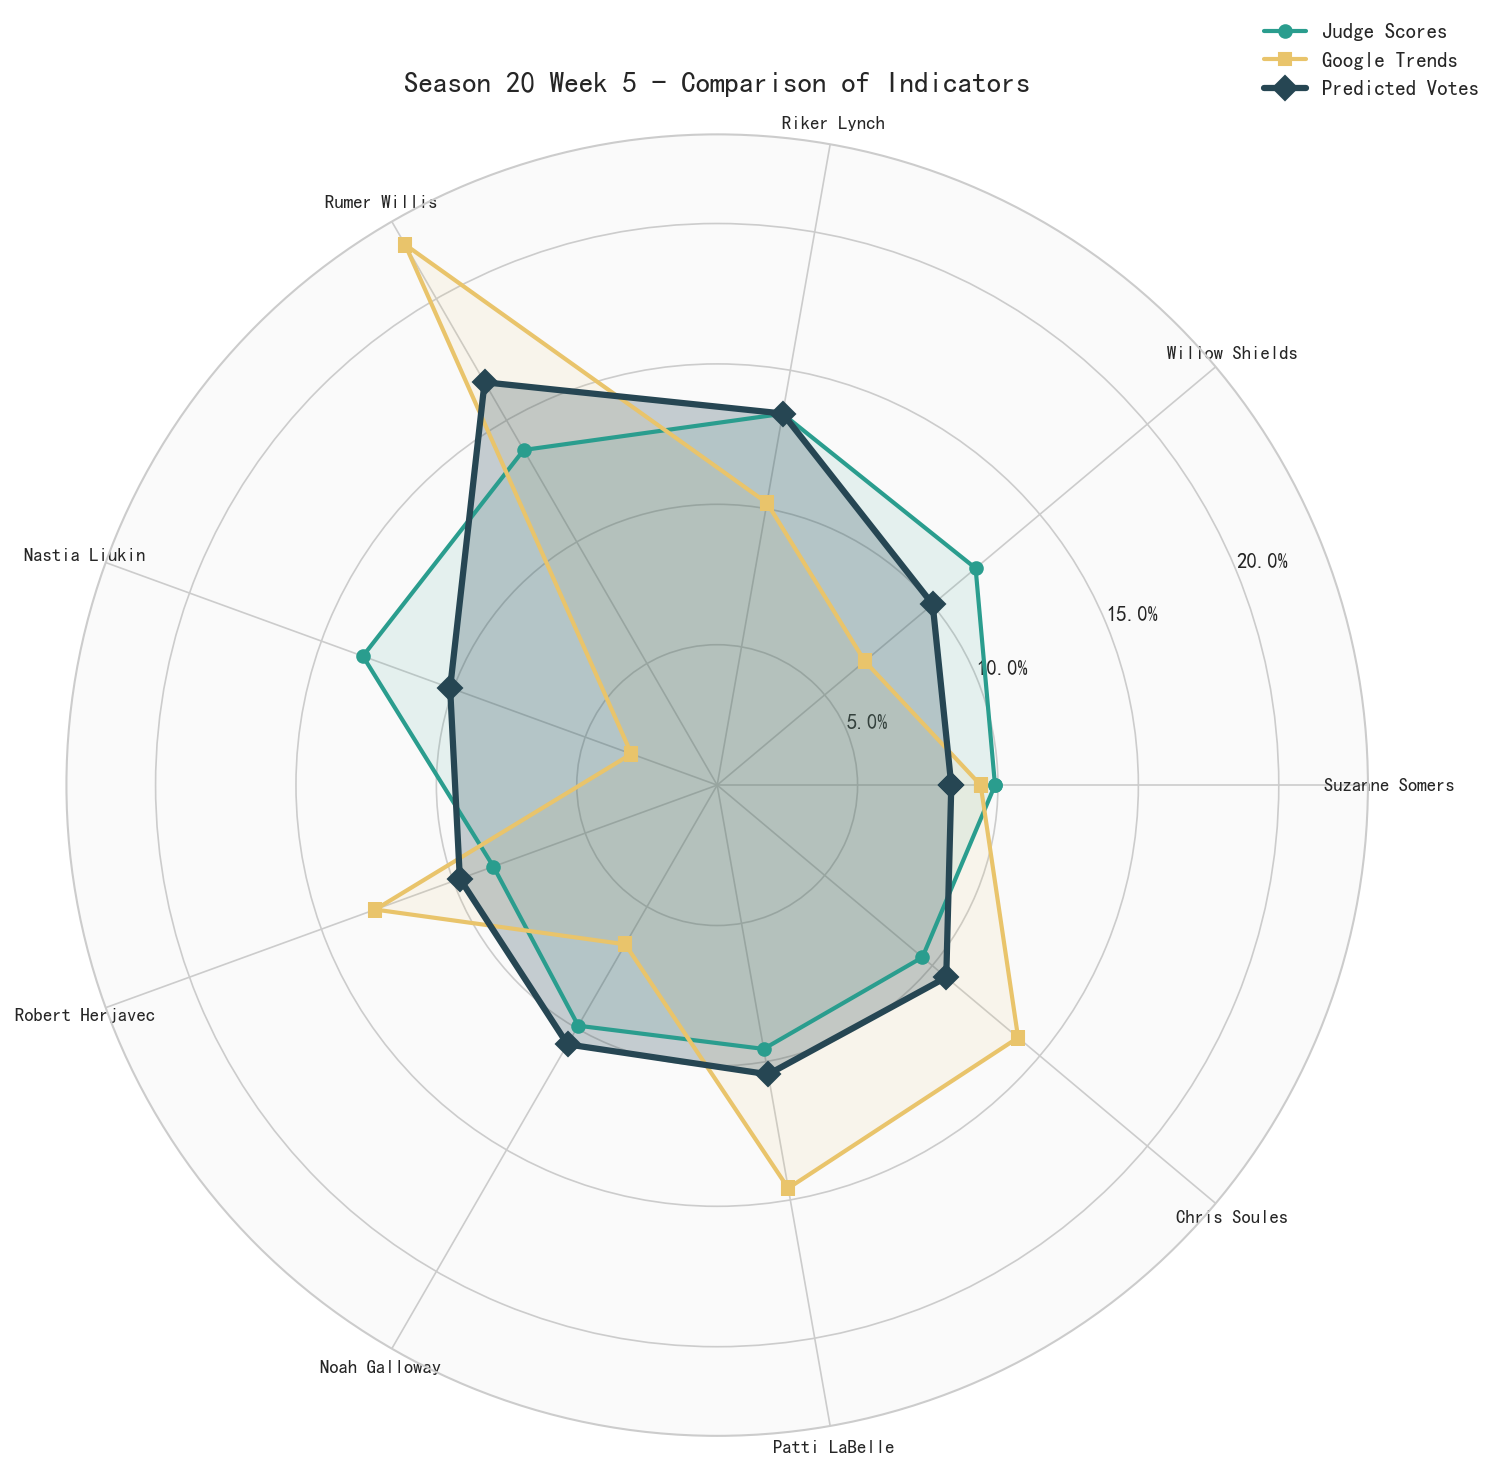
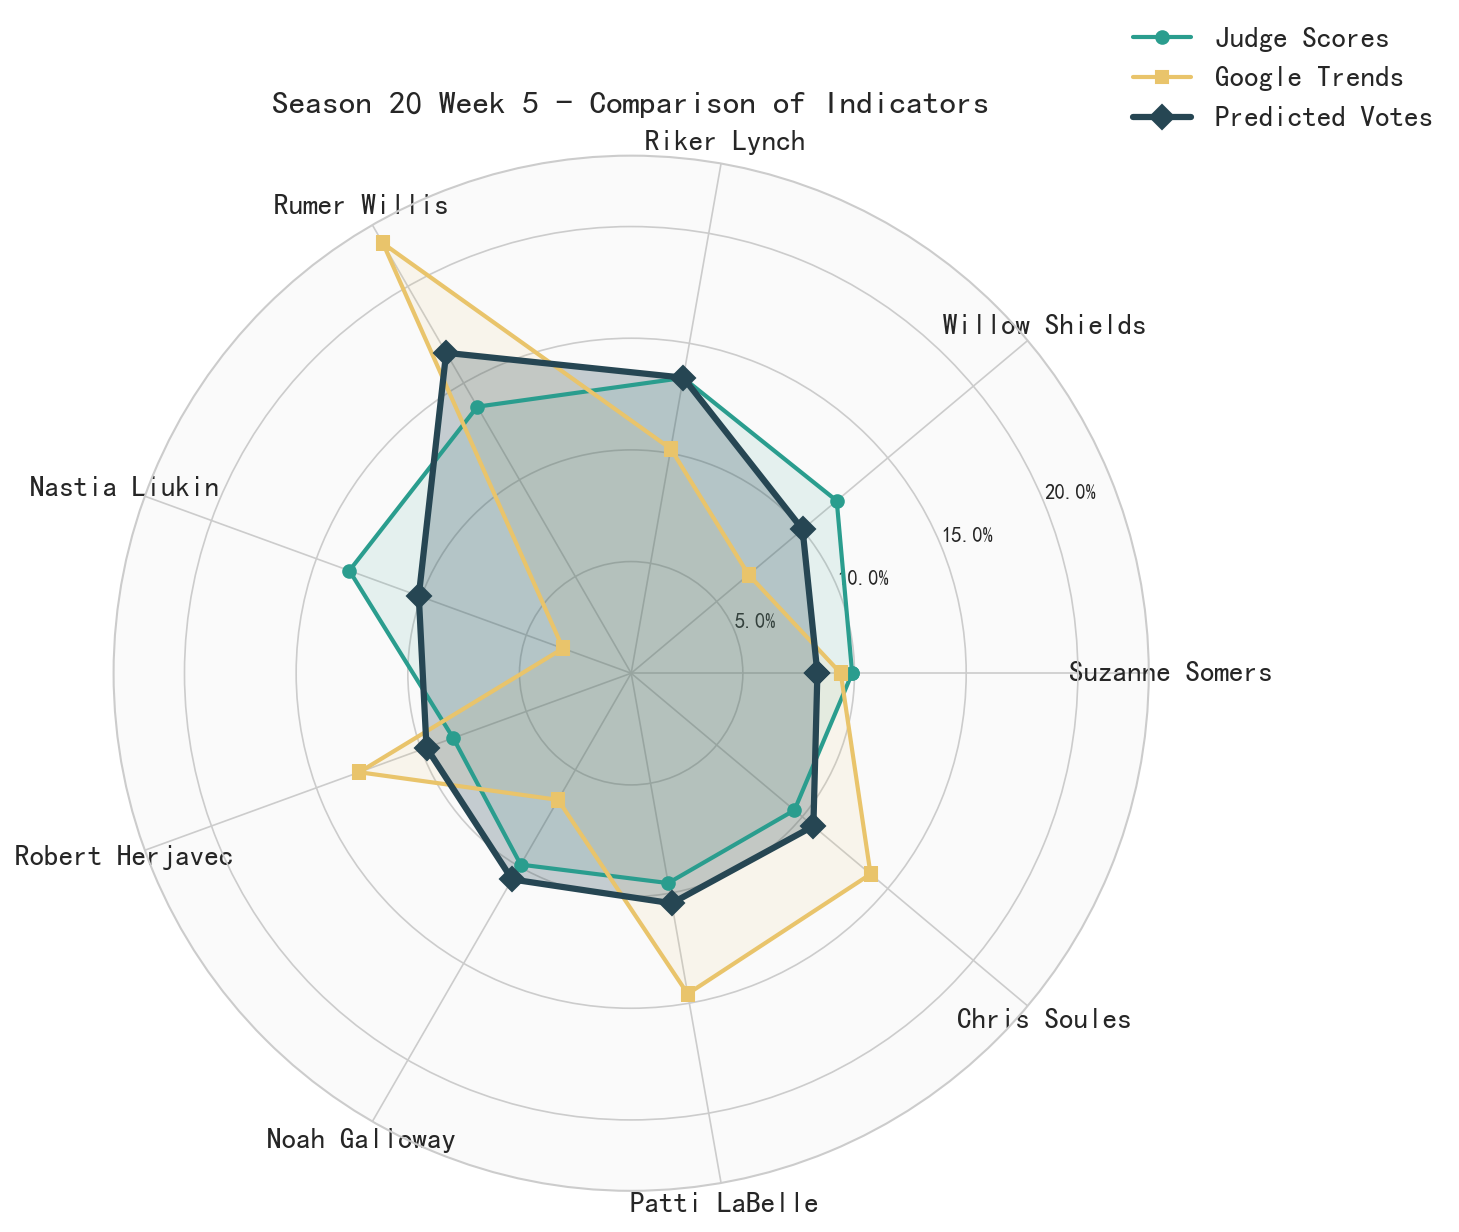
plot 1 update

diff --git a/yanxiao/visualization/plots.py b/yanxiao/visualization/plots.py
@@ -201,16 +201,16 @@ class VotePlotter:
         ax.fill(angles, vote_shares_closed, alpha=0.25, color=COLORS['primary']) # 增加透明度让颜色更丰富
         
         ax.set_xticks(angles[:-1])
-        ax.set_xticklabels(names, size=9)
+        ax.set_xticklabels(names, size=14, fontweight='bold')
         
         # 设置Y轴标签格式
         ax.yaxis.set_major_formatter(mticker.PercentFormatter(1.0))
         
         ax.set_title(f'Season {season} Week {week} - Comparison of Indicators', 
-                     size=14, pad=20)
+                     size=16, pad=20)
         
         # 添加图例
-        ax.legend(loc='upper right', bbox_to_anchor=(1.1, 1.1))
+        ax.legend(loc='upper right', bbox_to_anchor=(1.3, 1.15), fontsize=14)
         
         plt.tight_layout()
         

diff --git a/question2/README_FIGURES.md b/question2/README_FIGURES.md
@@ -3,75 +3,81 @@
 本文档详细说明了 `outputs/figures` 目录下由分析脚本 (`main.py`) 生成的图表含义。这些可视化图表旨在对比 **排名法 (Rank Method)** 和 **百分比法 (Percent Method)** 在结合评委评分和观众投票时的效果差异。
 
 ## 1. 投票方法对比概览
+
 **文件名:** `method_comparison_overview.png`
 
 该图提供了两种投票方法在历史所有赛季中一致性的宏观对比。
 
-*   **左图: 一致率 (按赛季) / Agreement Rate**
-    *   **柱状高度:** 两种方法（排名法和百分比法）产生完全相同淘汰结果（或底部两名）的周次百分比。
-    *   **颜色:** 
-        *   **青绿色 (Teal):** 官方赛制使用排名法的赛季。
-        *   **深蓝色 (Dark Blue):** 官方赛制使用百分比法的赛季。
-    *   **虚线:** 历史平均一致率。
-    *   **解读:** 柱子越高，说明方法的选择对该赛季结果影响越小。柱子较低则表明方法的选择显著影响了晋级结果。
+* **左图: 一致率 (按赛季) / Agreement Rate**
+  * **柱状高度:** 两种方法（排名法和百分比法）产生完全相同淘汰结果（或底部两名）的周次百分比。
+  * **颜色:**
+    * **青绿色 (Teal):** 官方赛制使用排名法的赛季。
+    * **深蓝色 (Dark Blue):** 官方赛制使用百分比法的赛季。
+  * **虚线:** 历史平均一致率。
+  * **解读:** 柱子越高，说明方法的选择对该赛季结果影响越小。柱子较低则表明方法的选择显著影响了晋级结果。
 
-*   **右图: 不一致周数 (按赛季) / Inconsistent Weeks**
-    *   **柱状高度:** 每个赛季中两种方法产生不同结果的具体周数。
-    *   **解读:** 突出显示了哪些赛季最容易因赛制产生"争议"或结果偏差。
+* **右图: 不一致周数 (按赛季) / Inconsistent Weeks**
+  * **柱状高度:** 每个赛季中两种方法产生不同结果的具体周数。
+  * **解读:** 突出显示了哪些赛季最容易因赛制产生"争议"或结果偏差。
 
 ---
 
 ## 2. 争议案例研究 - 排名轨迹
+
 **文件名:** `controversy_trajectories.png`
 
 这张组合图（2x2网格）展示了四位历史上著名的争议选手：**Jerry Rice (S2), Billy Ray Cyrus (S4), Bristol Palin (S11), 和 Bobby Bones (S27)** 的每周表现轨迹。
 
-*   **X轴:** 比赛周次。
-*   **Y轴:** 排名 (1为最高/最好)。
-*   **线条说明:**
-    *   🔴 **评委排名 (红/Red):** 仅根据评委评分得出的排名。（对于争议选手通常较低/较差）。
-    *   🟡 **观众排名 (黄/Yellow):** 仅根据估计的观众投票得出的排名。（通常很高/很好）。
-    *   🟢 **综合 - 排名法 (青/Teal):** 使用50/50排名法计算的综合排名。
-    *   🔵 **综合 - 百分比法 (深蓝/Dark Blue):** 使用50/50百分比法计算的综合排名。
-*   **解读:** 红色和黄色线条之间的巨大垂直差距表明了"两极分化"的表现。您可以观察青色和深蓝色线条如何在这些极端之间进行权衡。
+* **X轴:** 比赛周次。
+* **Y轴:** 排名 (1为最高/最好)。
+* **线条说明:**
+  * 🔴 **评委排名 (红/Red):** 仅根据评委评分得出的排名。（对于争议选手通常较低/较差）。
+  * 🟡 **观众排名 (黄/Yellow):** 仅根据估计的观众投票得出的排名。（通常很高/很好）。
+  * 🟢 **综合 - 排名法 (青/Teal):** 使用50/50排名法计算的综合排名。
+  * 🔵 **综合 - 百分比法 (深蓝/Dark Blue):** 使用50/50百分比法计算的综合排名。
+* **解读:** 红色和黄色线条之间的巨大垂直差距表明了"两极分化"的表现。您可以观察青色和深蓝色线条如何在这些极端之间进行权衡。
 
 ---
 
 ## 3. 分歧热力图
+
 **文件名:** `controversy_heatmap_comparison.png`
 
 该热力图通过量化评委和粉丝对争议案例的认知差距，解释了结果产生分歧的根本原因。
 
-*   **左图: 排名差异 / Rank Discrepancy (评委排名 - 观众排名)**
-    *   **指标:** 正值表示观众给出的排名比评委**更好**（数值更小）。
-        *   *计算公式:* `Gap = 评委排名 - 观众排名`
-        *   *示例:* 评委排第10 vs 观众排第1 = 差距为 +9。
-    *   **颜色:**
-        *   **青绿/Teal (+):** 观众比评委更喜欢该选手（粉丝拯救）。
-        *   **红/Red (-):** 评委比观众更喜欢该选手。
-    
-*   **右图: 份额差异 / Share Discrepancy (观众% - 评委%)**
-    *   **指标:** 总池中的*百分比份额*差异。
-        *   *计算公式:* `Gap = 观众投票份额% - 评委得分份额%`
-    *   **颜色:** 解释同上（绿色 = 粉丝偏爱，红色 = 评委偏爱）。
-    *   **解读:** 此图解释了**百分比法**为何有效或失效。巨大的份额差距（青色区域）往往能解释为什么百分比法会拯救一个得分很低的选手（如果他们在观众投票份额中占据压倒性优势）。
+* **左图: 排名差异 / Rank Discrepancy (评委排名 - 观众排名)**
+  * **指标:** 正值表示观众给出的排名比评委**更好**（数值更小）。
+    * *计算公式:* `Gap = 评委排名 - 观众排名`
+    * *示例:* 评委排第10 vs 观众排第1 = 差距为 +9。
+  * **颜色:**
+    * **青绿/Teal (+):** 观众比评委更喜欢该选手（粉丝拯救）。
+    * **红/Red (-):** 评委比观众更喜欢该选手。
+
+* **右图: 份额差异 / Share Discrepancy (观众% - 评委%)**
+  * **指标:** 总池中的*百分比份额*差异。
+    * *计算公式:* `Gap = 观众投票份额% - 评委得分份额%`
+  * **颜色:** 解释同上（绿色 = 粉丝偏爱，红色 = 评委偏爱）。
+  * **解读:** 此图解释了**百分比法**为何有效或失效。巨大的份额差距（青色区域）往往能解释为什么百分比法会拯救一个得分很低的选手（如果他们在观众投票份额中占据压倒性优势）。
 
 ---
 
 ## 4. 单一案例深度聚焦: Bobby Bones
+
 **文件名:** `bobby_bones_trajectory.png`
 
 一张单独的、高分辨率的轨迹图，专门展示 **Bobby Bones (第27季)**，他是节目历史上最具争议的冠军之一。
 
-*   **视觉元素:** 与 `controversy_trajectories.png` 相同，但细节更丰富。
-*   **核心看点:** 观察 **评委排名 (红)** 如何持续停留在底部，而 **观众排名 (黄)** 始终保持在顶部。**排名法 (青)** 和 **百分比法 (蓝)** 的线条展示了不同的数学机制如何让他在低分情况下依然一路晋级至夺冠。
+* **视觉元素:** 与 `controversy_trajectories.png` 相同，但细节更丰富。
+* **核心看点:** 观察 **评委排名 (红)** 如何持续停留在底部，而 **观众排名 (黄)** 始终保持在顶部。**排名法 (青)** 和 **百分比法 (蓝)** 的线条展示了不同的数学机制如何让他在低分情况下依然一路晋级至夺冠。
 
 ---
 
 ## 配色方案参考
+
 所有可视化图表均采用 `配色.md` 中定义的统一配色：
-*   `#264653` (深蓝/Dark Blue) - 百分比法 (Percent Method)
-*   `#2a9d8e` (青绿/Teal) - 排名法 (Rank Method) / 粉丝正向偏好
-*   `#e9c46b` (金黄/Yellow) - 观众排名轨迹 (Fan Rank)
-*   `#f3a261` (橙色/Orange) - 中性/辅助色
-*   `#e86f52` (珊瑚红/Reddish) - 评委排名轨迹 (Judge Rank) / 评委正向偏好
+
+* `#264653` (深蓝/Dark Blue) - 百分比法 (Percent Method)
+* `#2a9d8e` (青绿/Teal) - 排名法 (Rank Method) / 粉丝正向偏好
+* `#e9c46b` (金黄/Yellow) - 观众排名轨迹 (Fan Rank)
+* `#f3a261` (橙色/Orange) - 中性/辅助色
+* `#e86f52` (珊瑚红/Reddish) - 评委排名轨迹 (Judge Rank) / 评委正向偏好
